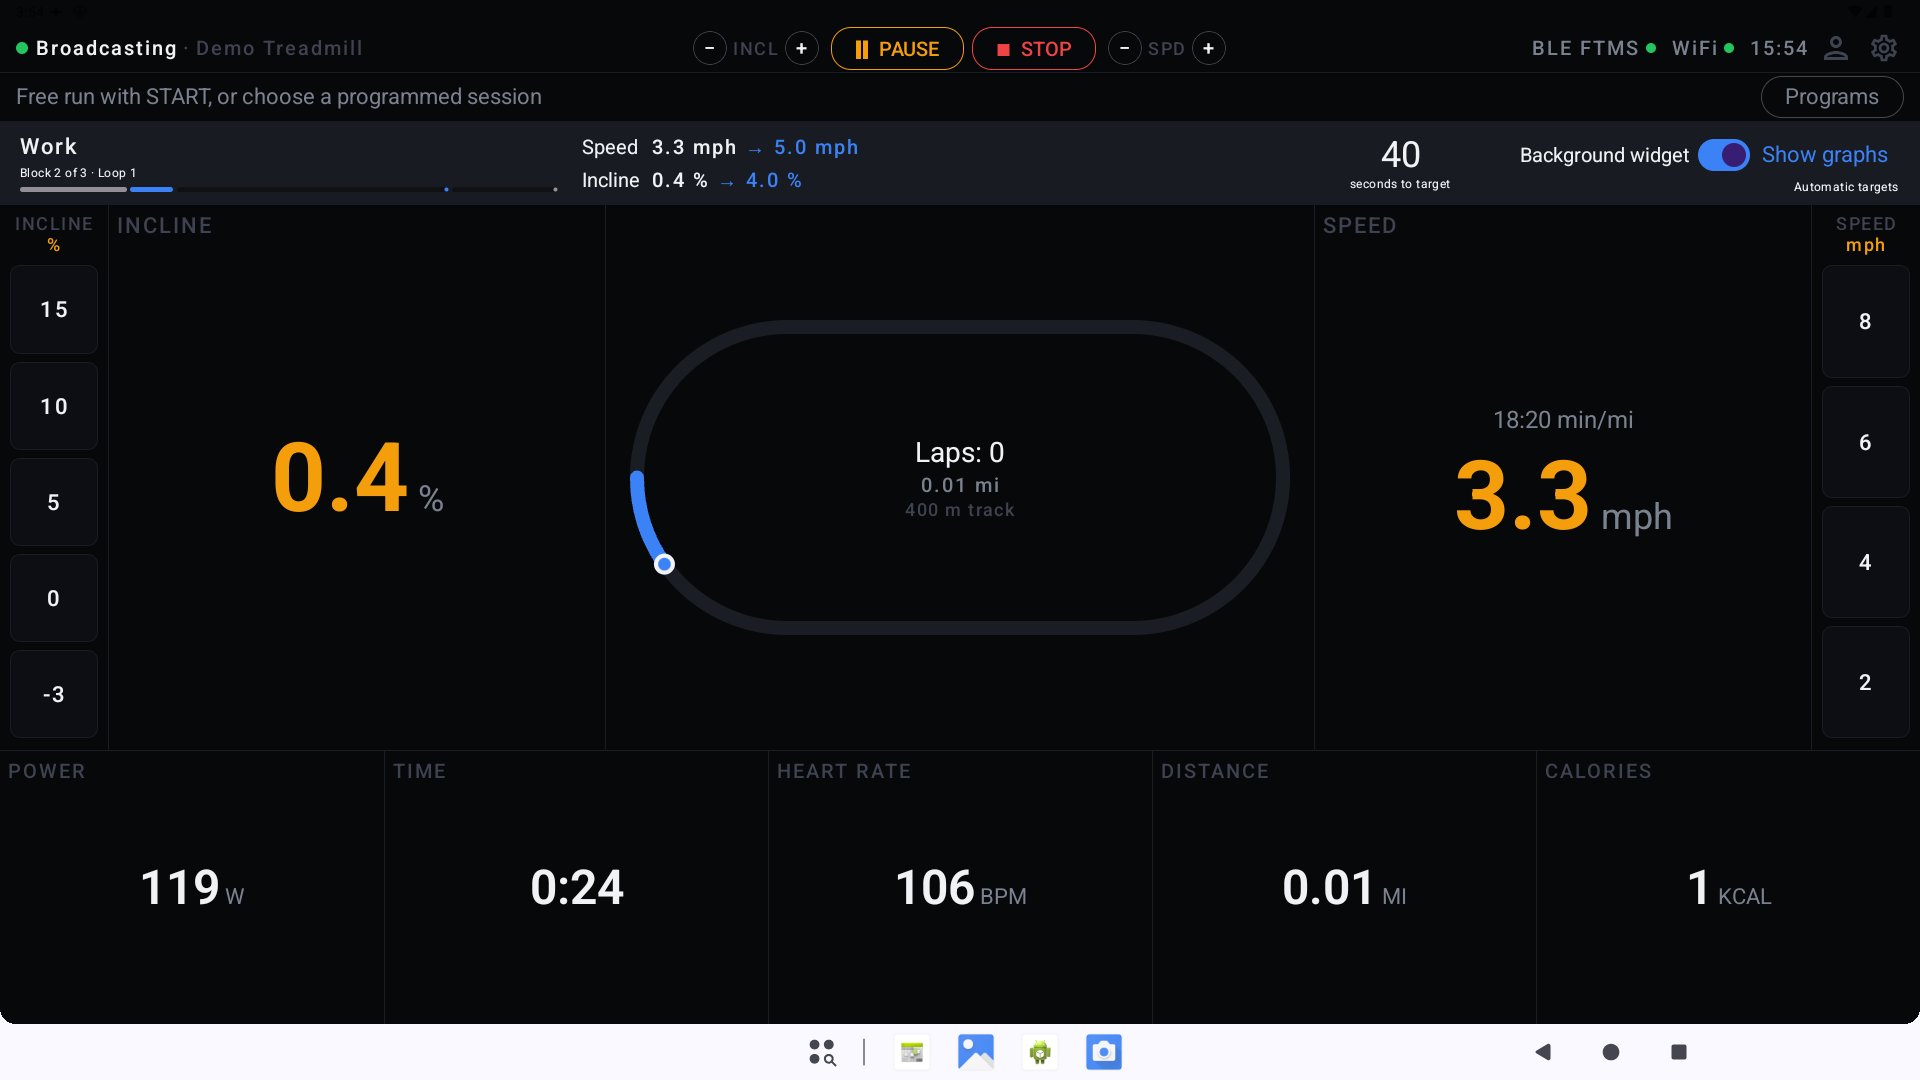
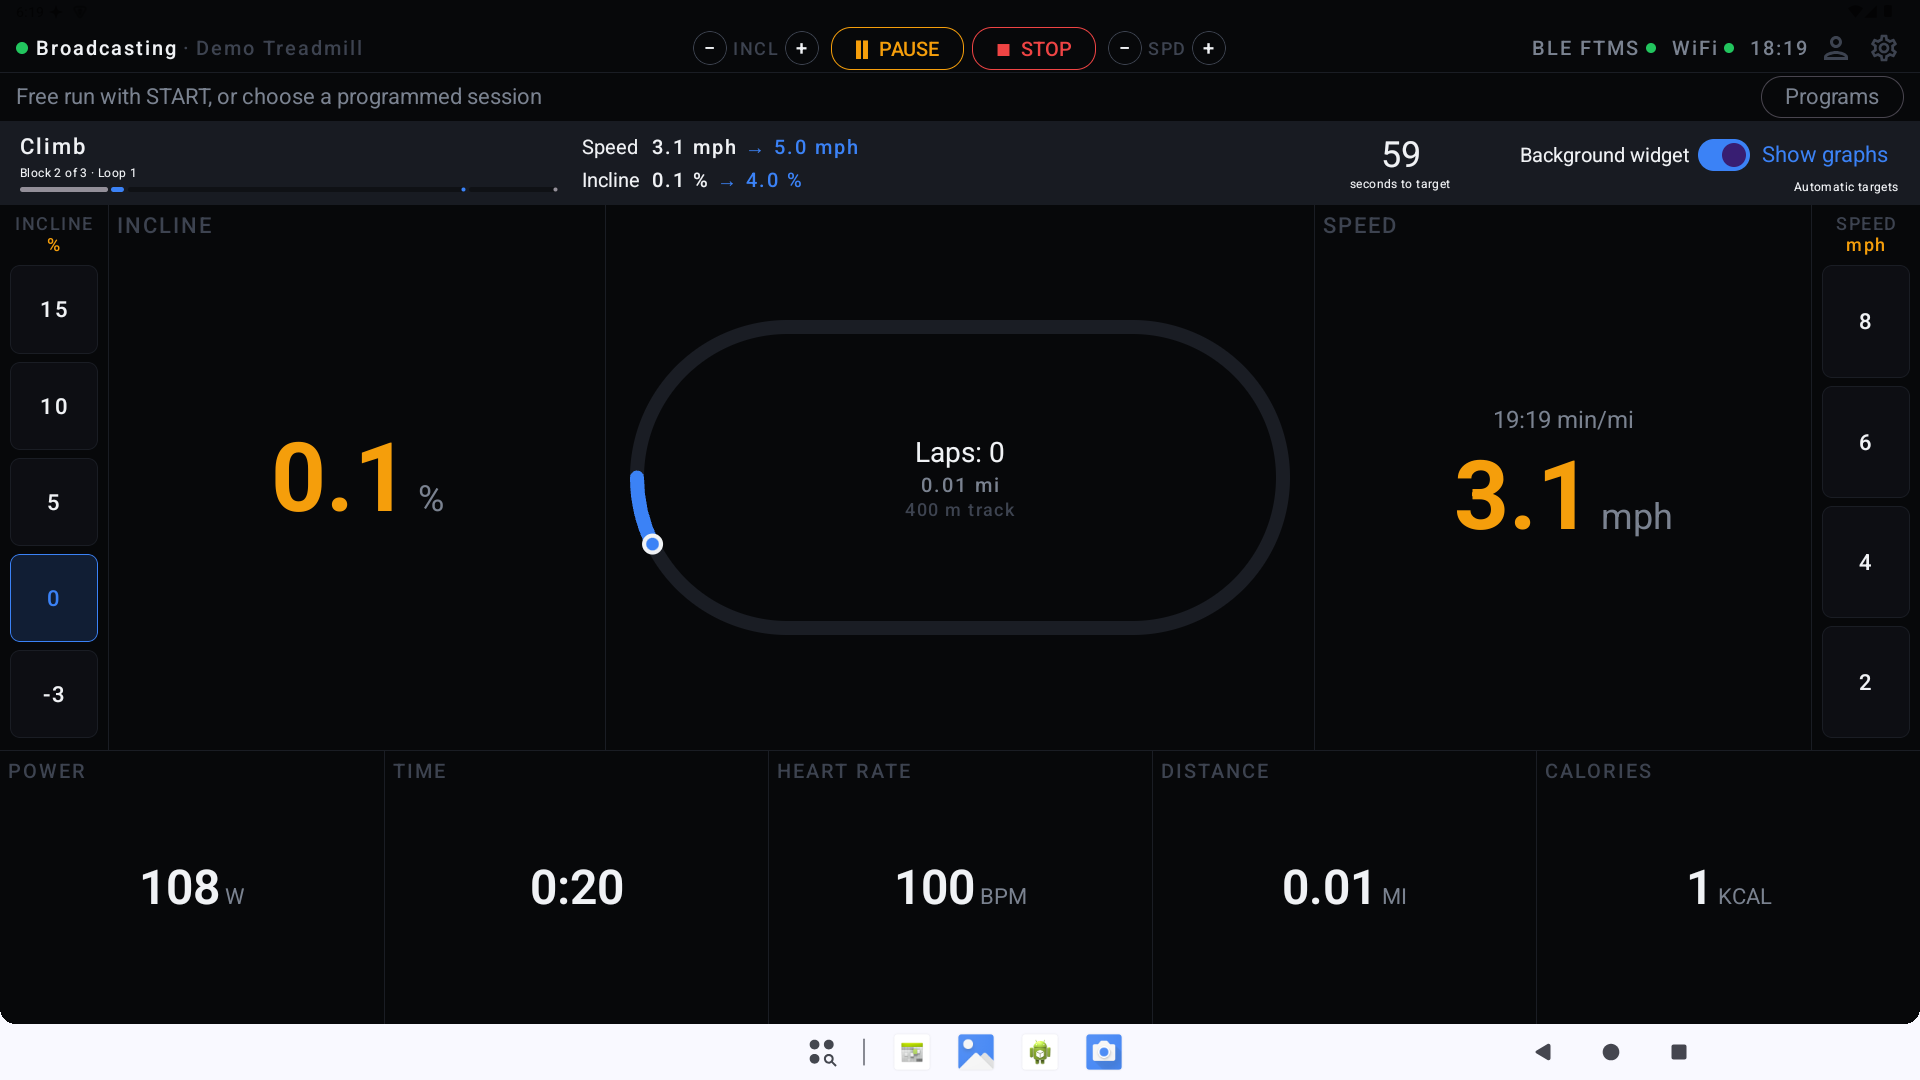
docs: refresh program screenshots from final runtime build

diff --git a/screenshots/programs/README.md b/screenshots/programs/README.md
@@ -1,0 +1,15 @@
+# Treadmill program screenshots
+
+Native screenshots from the standard debug build of runtime commit `bcbdf3352fb6e5a89fbb1f0efbef9811c8ed481e`, captured on Android 15/API 35 at 1920×1080. The demo program uses short blocks to show transitions and looping. These captures demonstrate the UI; they do not validate physical motor or firmware behaviour.
+
+| View | Screenshot |
+| --- | --- |
+| Ready-made program library | [program-library.png](program-library.png) |
+| Editor, graphs, minutes/seconds and loop toggle | [program-editor.png](program-editor.png) |
+| Block progress strip | [program-strip.png](program-strip.png) |
+| Speed and incline held manually until the next block | [program-strip-manual.png](program-strip-manual.png) |
+| Background target-change countdown | [background-widget.png](background-widget.png) |
+| Background manual-axis status | [background-widget-manual.png](background-widget-manual.png) |
+| Paused dashboard with explicit Resume | [program-paused.png](program-paused.png) |
+| Paused widget with explicit Resume | [background-widget-paused.png](background-widget-paused.png) |
+| Second loop with the current block progress strip | [loop-playback.png](loop-playback.png) |
